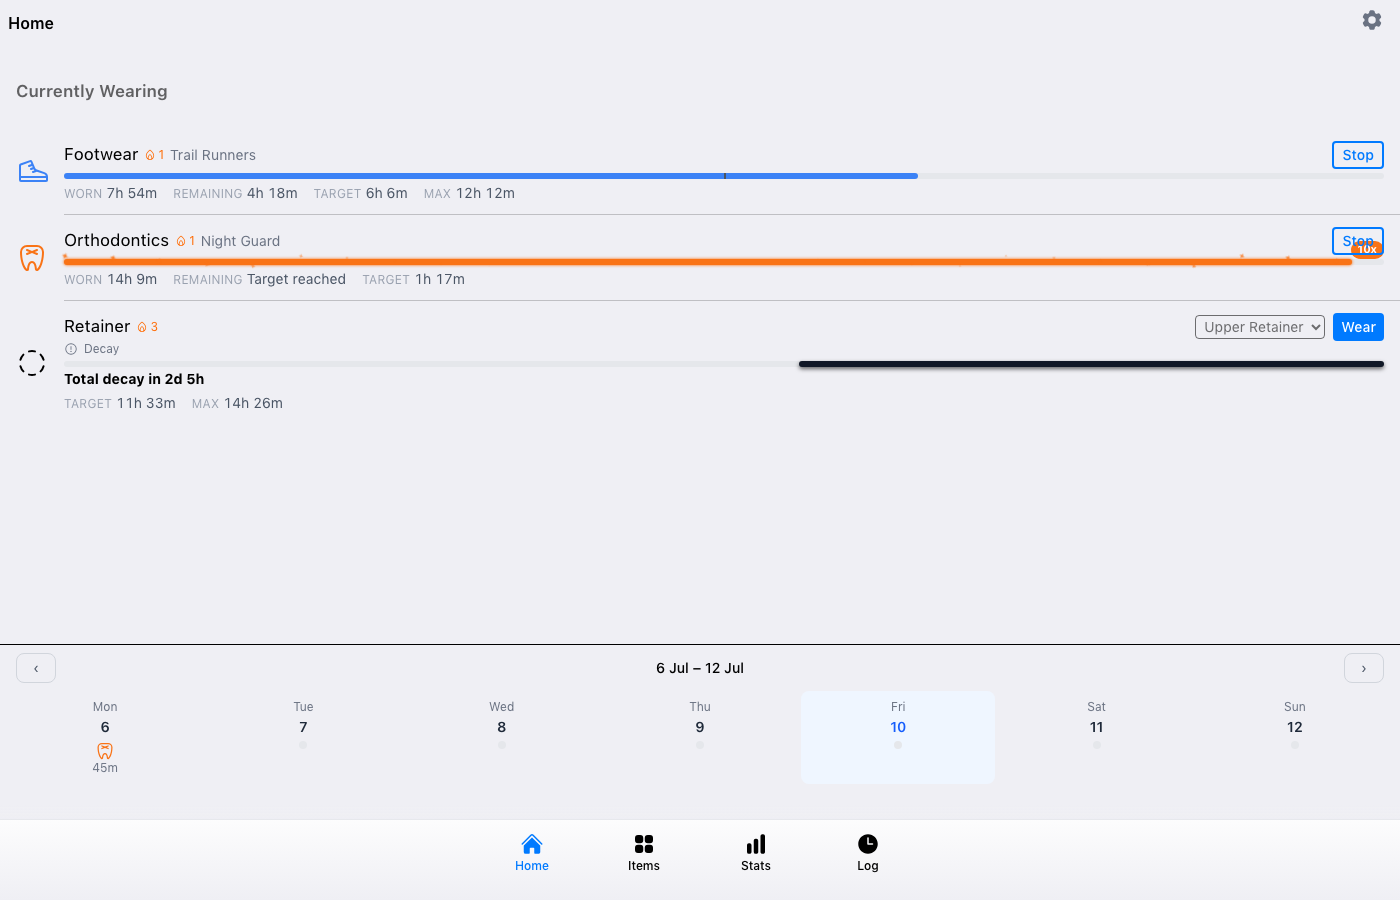
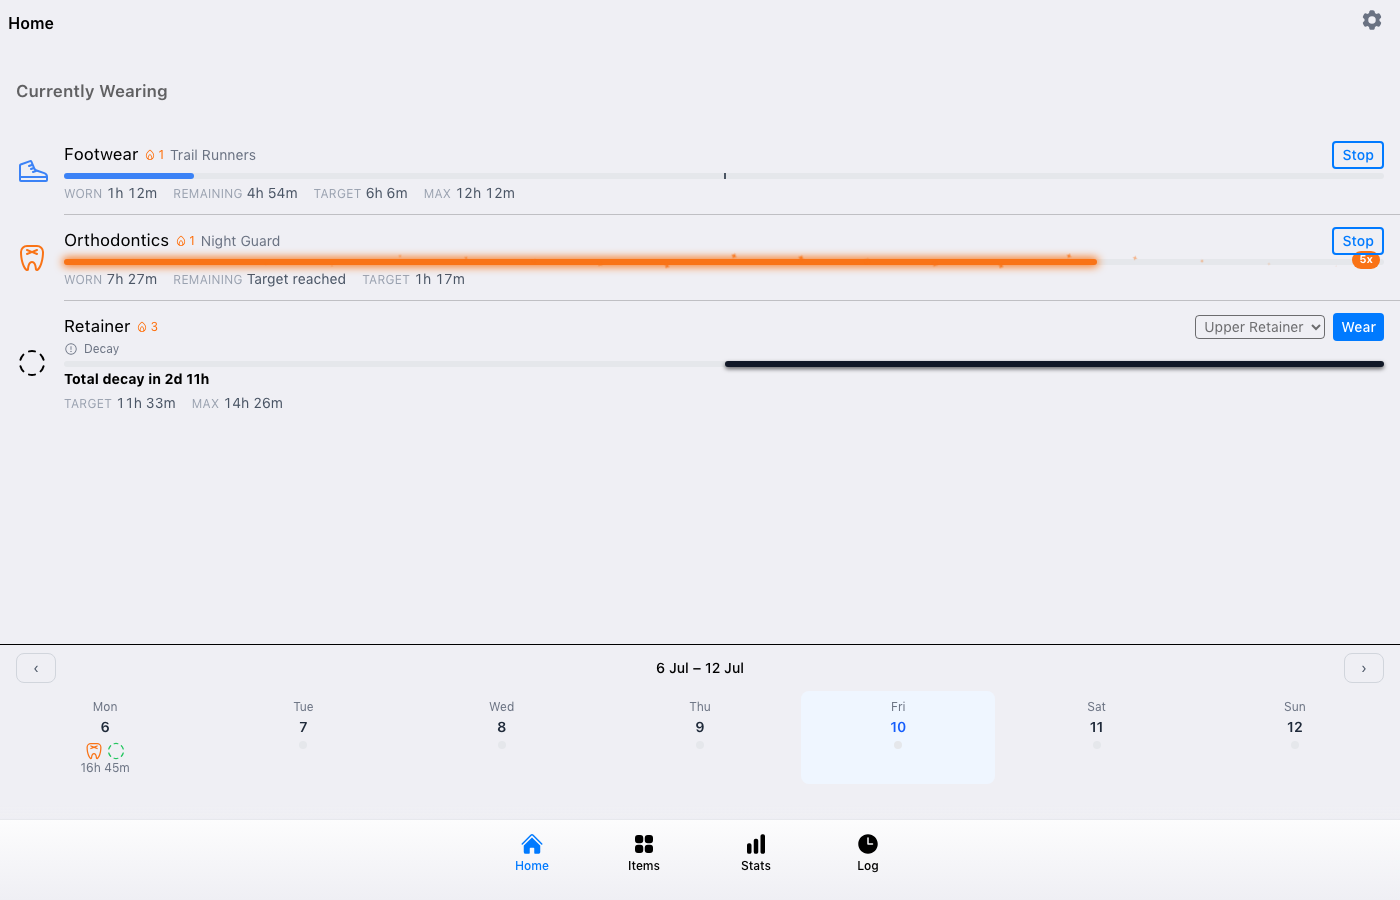
fix(frontend): keep lap badge from overlapping Stop button and being cut off by the bar

diff --git a/src/frontend/src/components/WearProgressBar.vue b/src/frontend/src/components/WearProgressBar.vue
@@ -75,8 +75,9 @@ const sparkles = computed(() => generateSparkles(SPARKLE_COUNTS[tier.value]));
 }
 .lap-badge {
   position: absolute;
-  top: -18px;
-  right: 0;
+  top: -8px;
+  right: 4px;
+  z-index: 1;
   font-size: 11px;
   font-weight: 700;
   padding: 1px 7px;